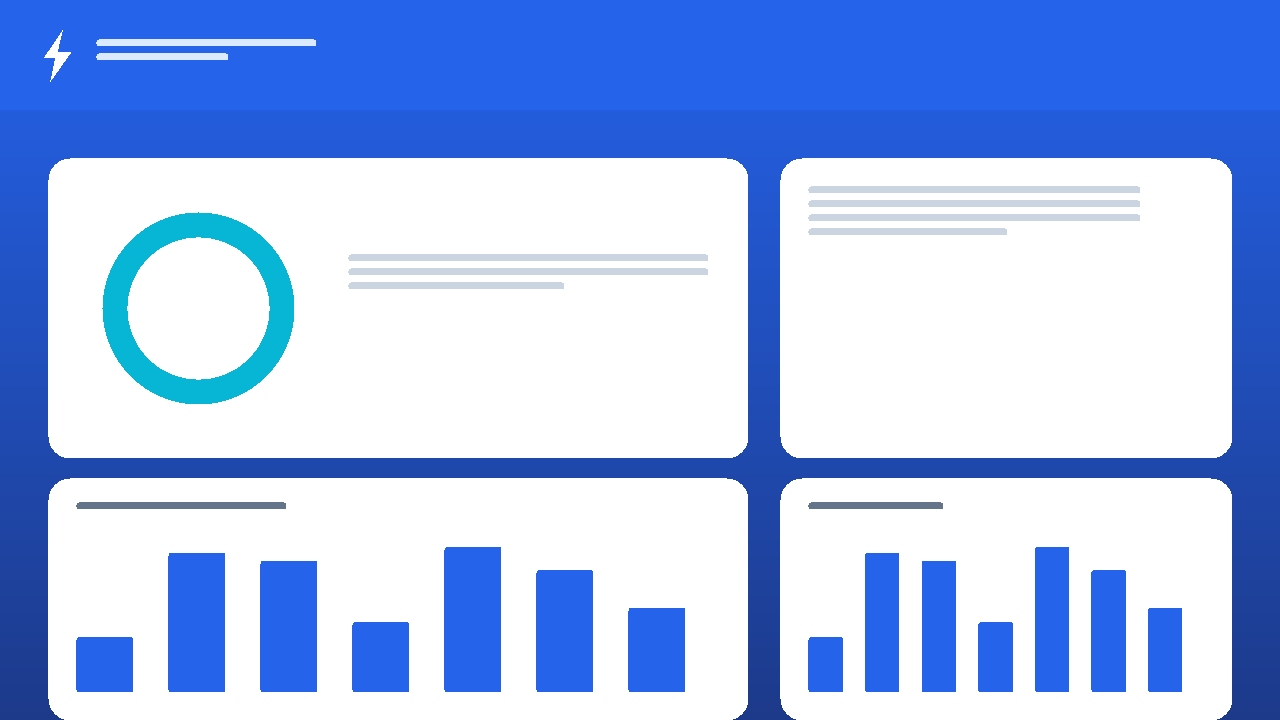
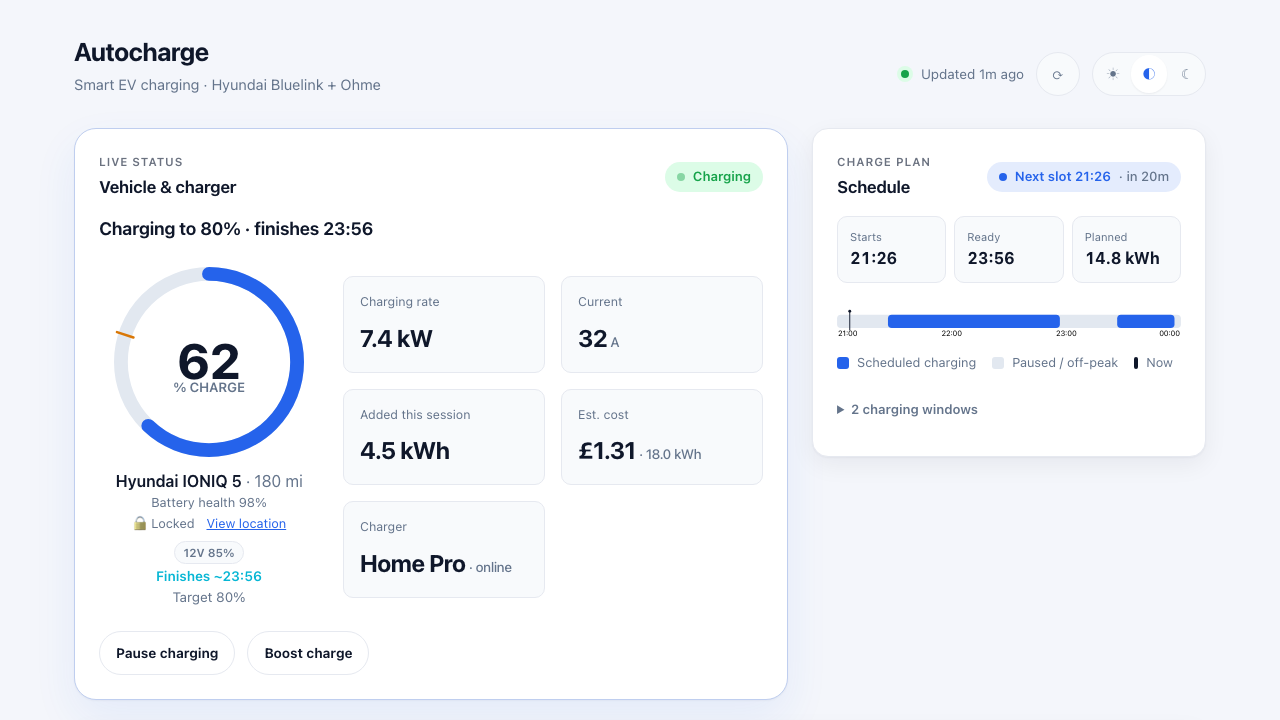
test(frontend): harden responsive and accessible states

diff --git a/frontend/vite.config.ts b/frontend/vite.config.ts
@@ -1,12 +1,66 @@
-import { defineConfig } from 'vite';
+import { defineConfig, type Plugin } from 'vite';
 import react from '@vitejs/plugin-react';
+import { scheduleFixture, sessionsFixture, statisticsFixture, statusFixture } from './src/test/fixtures';
 
 // The backend API base. In dev we proxy /api to the FastAPI server so the SPA
 // talks to the same relative paths it uses in production (served behind nginx).
 const API_TARGET = process.env.VITE_API_PROXY ?? 'http://localhost:8000';
 
+/** Deterministic local API used only to capture representative PWA screenshots. */
+function demoApi(): Plugin {
+  return {
+    name: 'autocharge-demo-api',
+    configureServer(server) {
+      server.middlewares.use('/api', (request, response, next) => {
+        if (process.env.VITE_DEMO_MODE !== '1') return next();
+        const path = request.url?.split('?')[0] ?? '';
+        const now = Date.now();
+        const iso = (offsetMinutes: number) => new Date(now + offsetMinutes * 60_000).toISOString();
+        const payloads: Record<string, unknown> = {
+          '/status': {
+            ...statusFixture,
+            updatedAt: iso(-1),
+            charger: { ...statusFixture.charger, projectedFinish: iso(170) },
+            config: { ...statusFixture.config, readyBy: '06:30', readyByIsManual: true },
+          },
+          '/schedule': {
+            ...scheduleFixture,
+            updatedAt: iso(-1),
+            nextSlotStart: iso(20),
+            nextSlotEnd: iso(110),
+            slots: [
+              { start: iso(20), end: iso(110), power: 7.4, energy: 11.1 },
+              { start: iso(140), end: iso(170), power: 7.4, energy: 3.7 },
+            ],
+          },
+          '/statistics': statisticsFixture,
+          '/sessions': sessionsFixture,
+          '/soh-history': { enabled: false, history: [] },
+          '/tariff': { enabled: false, rates: [], cheapest: [] },
+          '/energy-usage': { enabled: false, date: null, slots: [], totals: null },
+          '/data-quality': {
+            status: 'ok', generatedAt: iso(0), persistenceAvailable: false,
+            actualCostExpected: false, sessions: null, telemetry: null,
+            consumption: null, daily: null, statisticsCache: { available: true, ageSeconds: 30 },
+          },
+          '/version': { version: 'demo' },
+          '/vehicles': {
+            vehicles: [{ id: 'demo-car', name: 'IONIQ 5', vin: null, model: 'IONIQ 5' }],
+            selected: 'demo-car',
+          },
+        };
+        const payload = payloads[path];
+        if (payload === undefined) return next();
+        response.statusCode = 200;
+        response.setHeader('Content-Type', 'application/json');
+        response.end(JSON.stringify(payload));
+      });
+    },
+  };
+}
+
 export default defineConfig({
-  plugins: [react()],
+  plugins: [react(), demoApi()],
   server: {
     port: 5173,
     proxy: {

diff --git a/frontend/src/styles/app.css b/frontend/src/styles/app.css
@@ -32,7 +32,8 @@ body {
 .app {
   max-width: var(--maxw);
   margin: 0 auto;
-  padding: var(--space-6) var(--space-5) var(--space-7);
+  padding: max(var(--space-6), env(safe-area-inset-top)) max(var(--space-5), env(safe-area-inset-right))
+    max(var(--space-7), env(safe-area-inset-bottom)) max(var(--space-5), env(safe-area-inset-left));
 }
 
 /* --- header --- */
@@ -106,7 +107,7 @@ body {
 }
 .theme-option {
   min-width: 36px;
-  height: 36px;
+  height: 38px;
   border: none;
   background: transparent;
   border-radius: 999px;
@@ -1304,6 +1305,7 @@ a.ghost-button {
   padding: 6px 12px;
   border-radius: 999px;
   cursor: pointer;
+  min-height: 44px;
 }
 .ghost-button:hover:not(:disabled) {
   color: var(--text);
@@ -1313,6 +1315,27 @@ a.ghost-button {
   opacity: 0.5;
   cursor: not-allowed;
 }
+.primary-button,
+.secondary-button {
+  align-items: center;
+  border: 1px solid transparent;
+  border-radius: 999px;
+  cursor: pointer;
+  display: inline-flex;
+  font: inherit;
+  font-size: 0.85rem;
+  font-weight: 650;
+  justify-content: center;
+  min-height: 44px;
+  padding: 8px 16px;
+}
+.primary-button { background: var(--brand); color: #fff; }
+.primary-button:hover:not(:disabled) { background: var(--brand-strong); }
+.secondary-button { background: var(--surface); border-color: var(--border); color: var(--text); }
+.secondary-button:hover:not(:disabled) { border-color: var(--brand); color: var(--brand); }
+.primary-button:disabled,
+.secondary-button:disabled { cursor: not-allowed; opacity: 0.55; }
+.boost-confirm { border-color: var(--danger); color: var(--danger); }
 
 .barchart svg { width: 100%; height: auto; display: block; }
 .barchart .axis { font-size: 10px; fill: var(--text-subtle); }
@@ -1364,7 +1387,7 @@ a.ghost-button {
 .chart-toolbar button {
   display: inline-flex;
   align-items: center;
-  min-height: 36px;
+  min-height: 40px;
   border: 0;
   background: transparent;
   color: var(--text-muted);
@@ -1413,6 +1436,10 @@ a.ghost-button {
   animation: shimmer 1.4s ease infinite;
   border-radius: var(--radius-sm);
 }
+.section-skeleton { display: grid; gap: var(--space-3); }
+.skeleton-title { height: 18px; width: min(42%, 180px); }
+.skeleton-copy { height: 12px; width: min(68%, 320px); }
+.skeleton-body { margin-top: var(--space-2); }
 @keyframes shimmer {
   0% { background-position: 100% 0; }
   100% { background-position: 0 0; }
@@ -1527,6 +1554,7 @@ a.ghost-button {
   color: var(--text);
   padding: 3px 8px;
   font-size: 0.85rem;
+  min-height: 44px;
 }
 
 @media (prefers-reduced-motion: reduce) {
@@ -1546,6 +1574,11 @@ a.ghost-button {
   .tiles { grid-template-columns: repeat(2, 1fr); }
   .dashboard-secondary { grid-template-columns: 1fr; }
   .settings-primary { grid-template-columns: 1fr; }
+  .app-header { align-items: flex-start; }
+  .app-meta { justify-content: space-between; width: 100%; }
+  .card > header { align-items: flex-start; flex-wrap: wrap; }
+  .stats-actions { flex-wrap: wrap; width: 100%; }
+  .chart-header { align-items: flex-start; flex-direction: column; }
 }
 @media (max-width: 460px) {
   .stat-cards, .tiles, .insights, .secondary-stat-cards { grid-template-columns: 1fr; }
@@ -1556,6 +1589,11 @@ a.ghost-button {
   .card { padding: var(--space-4); }
   .status-message { font-size: 1rem; }
   .settings-summary { align-items: flex-start; text-align: left; }
+  .app { padding-left: max(var(--space-4), env(safe-area-inset-left)); padding-right: max(var(--space-4), env(safe-area-inset-right)); }
+  .app-meta { gap: var(--space-2); }
+  .app-meta > span:not(.live-dot) { font-size: 0.78rem; }
+  .stats-actions .chart-toolbar { order: -1; }
+  .stats-actions { justify-content: space-between; }
   .session-head { display: none; }
   .session-row { align-items: stretch; grid-template-columns: 1fr auto; }
   .session-row .time,

diff --git a/frontend/src/components/Dashboard.tsx b/frontend/src/components/Dashboard.tsx
@@ -31,7 +31,13 @@ const QUALITY_INTERVAL = 300_000;
 const SOH_INTERVAL = 1_800_000; // 30 min
 
 function SectionSkeleton({ height }: { height: number }) {
-  return <div className="card"><div className="skeleton" style={{ height }} /></div>;
+  return (
+    <div className="card section-skeleton" aria-hidden="true">
+      <div className="skeleton skeleton-title" />
+      <div className="skeleton skeleton-copy" />
+      <div className="skeleton skeleton-body" style={{ height }} />
+    </div>
+  );
 }
 
 /**
@@ -67,7 +73,7 @@ function HeaderMeta({
   return (
     <div className="app-meta">
       <span className={`live-dot ${fresh ? '' : 'stale'}`} aria-hidden="true" />
-      <span>{refreshing ? 'Refreshing…' : `Updated ${relativeTime(lastPolled, new Date(now))}`}</span>
+      <span aria-live="polite">{refreshing ? 'Refreshing…' : `Updated ${relativeTime(lastPolled, new Date(now))}`}</span>
       <button
         type="button"
         className={`refresh-btn ${refreshing ? 'spinning' : ''}`}
@@ -85,7 +91,7 @@ function HeaderMeta({
 
 function SectionError({ message, onRetry }: { message: string; onRetry: () => void }) {
   return (
-    <div className="card section-error" role="alert">
+    <div className="card section-error" role="status">
       <span>{message}</span>
       <button type="button" className="ghost-button" onClick={onRetry}>
         Retry
@@ -153,6 +159,9 @@ export function Dashboard() {
   const { refetch: refetchStats } = stats;
   const { refetch: refetchSessions } = sessions;
   const { refetch: refetchQuality } = quality;
+  const { refetch: refetchTariff } = tariff;
+  const { refetch: refetchSoh } = soh;
+  const { refetch: refetchEnergy } = energy;
 
   // Persist a new charge target, then refetch status so the UI reflects it.
   const handleSetTarget = useCallback(
@@ -283,10 +292,12 @@ export function Dashboard() {
         </div>
       )}
 
-      <main className="sections">
+      <main className="sections" aria-busy={status.loading && !status.data}>
         <div className="dashboard-overview">
           {status.data ? (
             <StatusSection status={status.data} onChargeChanged={refetchStatus} />
+          ) : status.error ? (
+            <SectionError message="Couldn’t load live charging status." onRetry={refetchStatus} />
           ) : (
             <SectionSkeleton height={420} />
           )}
@@ -318,11 +329,23 @@ export function Dashboard() {
           <SectionSkeleton height={320} />
         )}
         <div className="dashboard-secondary">
-          {sessions.data && <SessionsSection data={sessions.data} />}
-          {soh.data?.enabled && <SohTrendSection data={soh.data} />}
-          {tariff.data?.enabled && <TariffSection data={tariff.data} />}
-          {energy.data?.enabled && <EnergyUsageSection data={energy.data} onDateChange={setEnergyDate} />}
-          {quality.data && <DataQualitySection data={quality.data} />}
+          {sessions.data ? <SessionsSection data={sessions.data} /> : sessions.error ? (
+            <SectionError message="Couldn’t load recent sessions." onRetry={refetchSessions} />
+          ) : null}
+          {soh.data?.enabled ? <SohTrendSection data={soh.data} /> : soh.error ? (
+            <SectionError message="Couldn’t load battery health." onRetry={refetchSoh} />
+          ) : null}
+          {tariff.data?.enabled ? <TariffSection data={tariff.data} /> : tariff.error ? (
+            <SectionError message="Couldn’t load tariff prices." onRetry={refetchTariff} />
+          ) : null}
+          {energy.data?.enabled ? (
+            <EnergyUsageSection data={energy.data} onDateChange={setEnergyDate} />
+          ) : energy.error ? (
+            <SectionError message="Couldn’t load household energy." onRetry={refetchEnergy} />
+          ) : null}
+          {quality.data ? <DataQualitySection data={quality.data} /> : quality.error ? (
+            <SectionError message="Couldn’t load data quality." onRetry={refetchQuality} />
+          ) : null}
         </div>
       </main>
 

diff --git a/frontend/src/test/PwaAssets.test.ts b/frontend/src/test/PwaAssets.test.ts
@@ -1,0 +1,33 @@
+/// <reference types="node" />
+
+import { createHash } from 'node:crypto';
+import { readFileSync } from 'node:fs';
+import { resolve } from 'node:path';
+import { describe, expect, it } from 'vitest';
+
+const SCREENSHOTS = [
+  {
+    file: 'screenshot-wide.png',
+    width: 1280,
+    height: 720,
[1 lines of base64/hex data omitted]
+  },
+  {
+    file: 'screenshot-narrow.png',
+    width: 720,
+    height: 1280,
[1 lines of base64/hex data omitted]
+  },
+];
+
+describe('PWA screenshot baselines', () => {
+  it.each(SCREENSHOTS)('keeps $file at its reviewed dimensions and pixels', (screenshot) => {
+    const image = readFileSync(resolve('public', screenshot.file));
+
+    // PNG IHDR stores width and height at byte offsets 16 and 20.
+    expect(image.subarray(1, 4).toString()).toBe('PNG');
+    expect(image.readUInt32BE(16)).toBe(screenshot.width);
+    expect(image.readUInt32BE(20)).toBe(screenshot.height);
+    expect(createHash('sha256').update(image).digest('hex')).toBe(screenshot.sha256);
+  });
+});

diff --git a/frontend/src/test/integration/Dashboard.a11y.test.tsx b/frontend/src/test/integration/Dashboard.a11y.test.tsx
@@ -1,0 +1,19 @@
+import axe from 'axe-core';
+import { render, screen } from '@testing-library/react';
+import { describe, expect, it } from 'vitest';
+import { Dashboard } from '../../components/Dashboard';
+
+describe('Dashboard accessibility', () => {
+  it('has no automatically detectable accessibility violations', async () => {
+    const { container } = render(<Dashboard />);
+    await screen.findByRole('heading', { name: /statistics & savings/i });
+
+    const results = await axe.run(container, {
+      // happy-dom has no layout/paint engine, so contrast needs browser-based
+      // verification; all structural ARIA and semantic rules still run here.
+      rules: { 'color-contrast': { enabled: false } },
+    });
+
+    expect(results.violations.map(({ id, nodes }) => ({ id, nodes: nodes.length }))).toEqual([]);
+  });
+});

diff --git a/frontend/src/components/ChargeControls.tsx b/frontend/src/components/ChargeControls.tsx
@@ -54,7 +54,7 @@ export function ChargeControls({ status, onChanged }: Props) {
       {paused && (
         <button
           type="button"
-          className="ghost-button"
+          className="primary-button"
           disabled={busy !== null}
           onClick={() => run('resume', () => api.resumeCharge())}
         >
@@ -64,7 +64,7 @@ export function ChargeControls({ status, onChanged }: Props) {
       {pausable && (
         <button
           type="button"
-          className="ghost-button"
+          className="secondary-button"
           disabled={busy !== null}
           onClick={() => run('pause', () => api.pauseCharge())}
         >
@@ -75,7 +75,7 @@ export function ChargeControls({ status, onChanged }: Props) {
       {boost ? (
         <button
           type="button"
-          className="ghost-button"
+          className="secondary-button"
           disabled={busy !== null}
           onClick={() => run('boost-off', () => api.setMaxCharge(false))}
         >
@@ -86,7 +86,7 @@ export function ChargeControls({ status, onChanged }: Props) {
           <div className="boost-confirm-actions">
             <button
               type="button"
-              className="ghost-button boost-confirm"
+              className="secondary-button boost-confirm"
               disabled={busy !== null}
               onClick={() => run('boost-on', () => api.setMaxCharge(true))}
             >
@@ -110,7 +110,7 @@ export function ChargeControls({ status, onChanged }: Props) {
       ) : (
         <button
           type="button"
-          className="ghost-button"
+          className="secondary-button"
           disabled={busy !== null}
           onClick={() => setConfirmBoost(true)}
           title="Charge at full rate now, ignoring the smart schedule"

diff --git a/frontend/README.md b/frontend/README.md
@@ -36,6 +36,18 @@ served from the same origin as the SPA).
   `Dashboard`, mocks all three API endpoints with [MSW](https://mswjs.io), and
   verifies the sections render real data and react to user input (time-range
   switching, error states).
+- **Accessibility test** runs axe-core against the fully populated dashboard;
+  colour contrast is verified separately in a real browser because the test DOM
+  has no paint engine.
+
+## PWA screenshots
+
+The manifest screenshots are captures of the real application using a local,
+read-only demo API. Start it with `VITE_DEMO_MODE=1 npm run dev`, then capture
+the page at 1280×720 and 720×1280. The demo middleware is enabled only by that
+environment variable and is never included in the production client bundle.
+`PwaAssets.test.ts` treats the reviewed captures as golden assets; update its
+hashes intentionally whenever the screenshots are recaptured.
 
 ## Production image
 